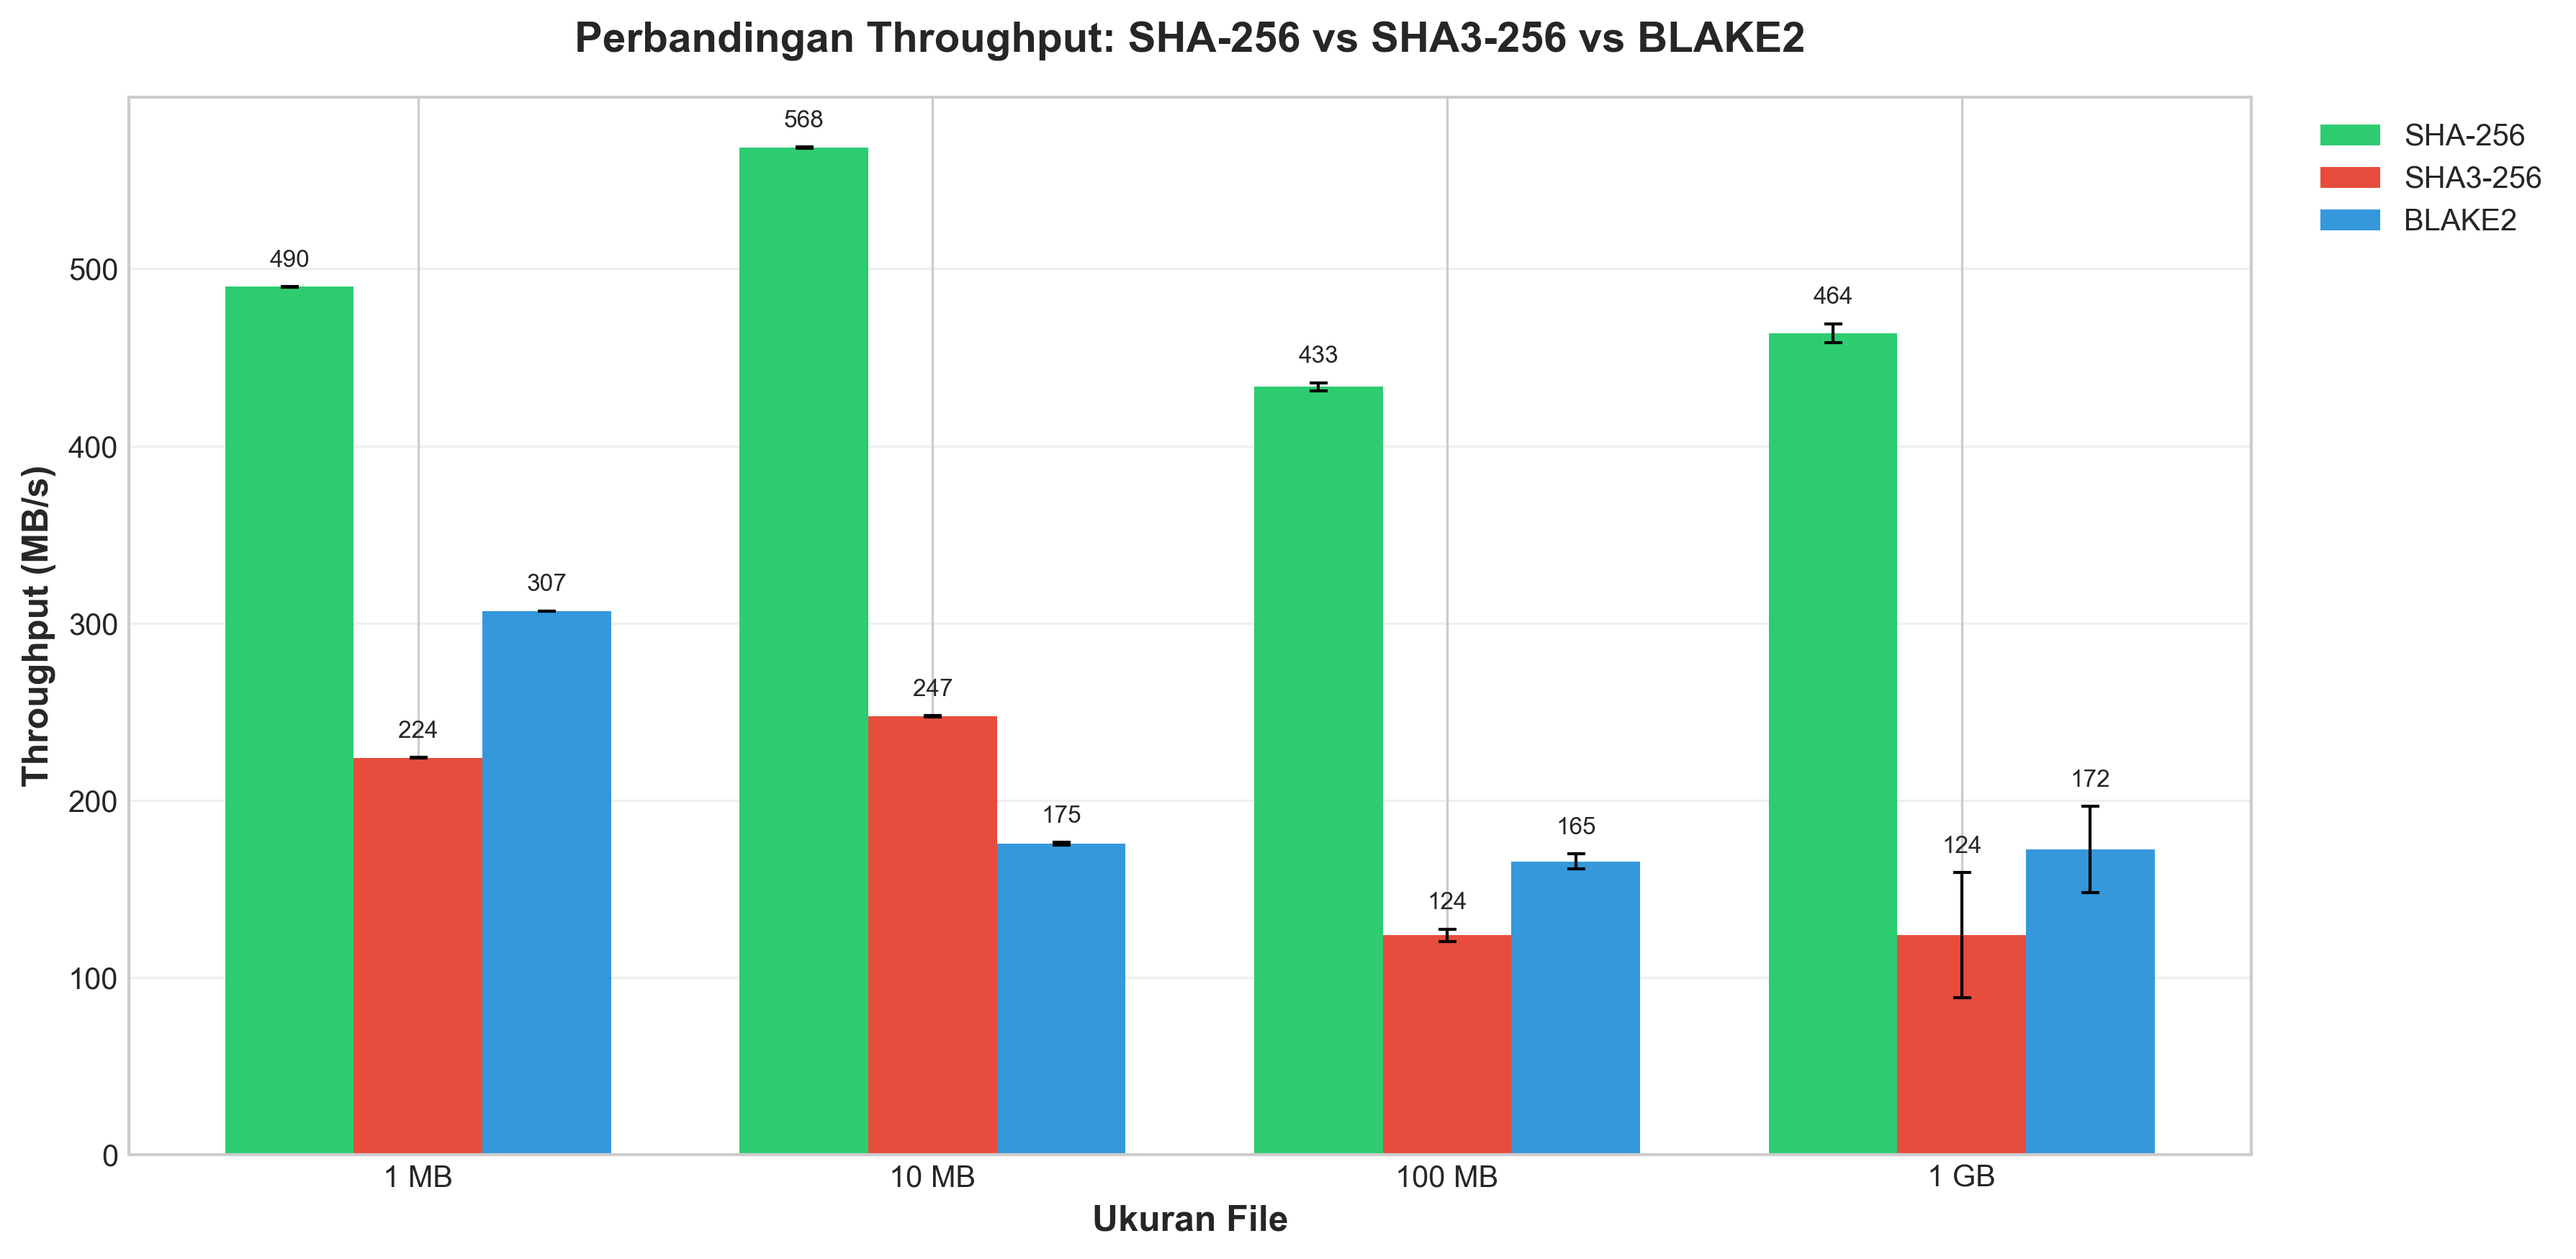
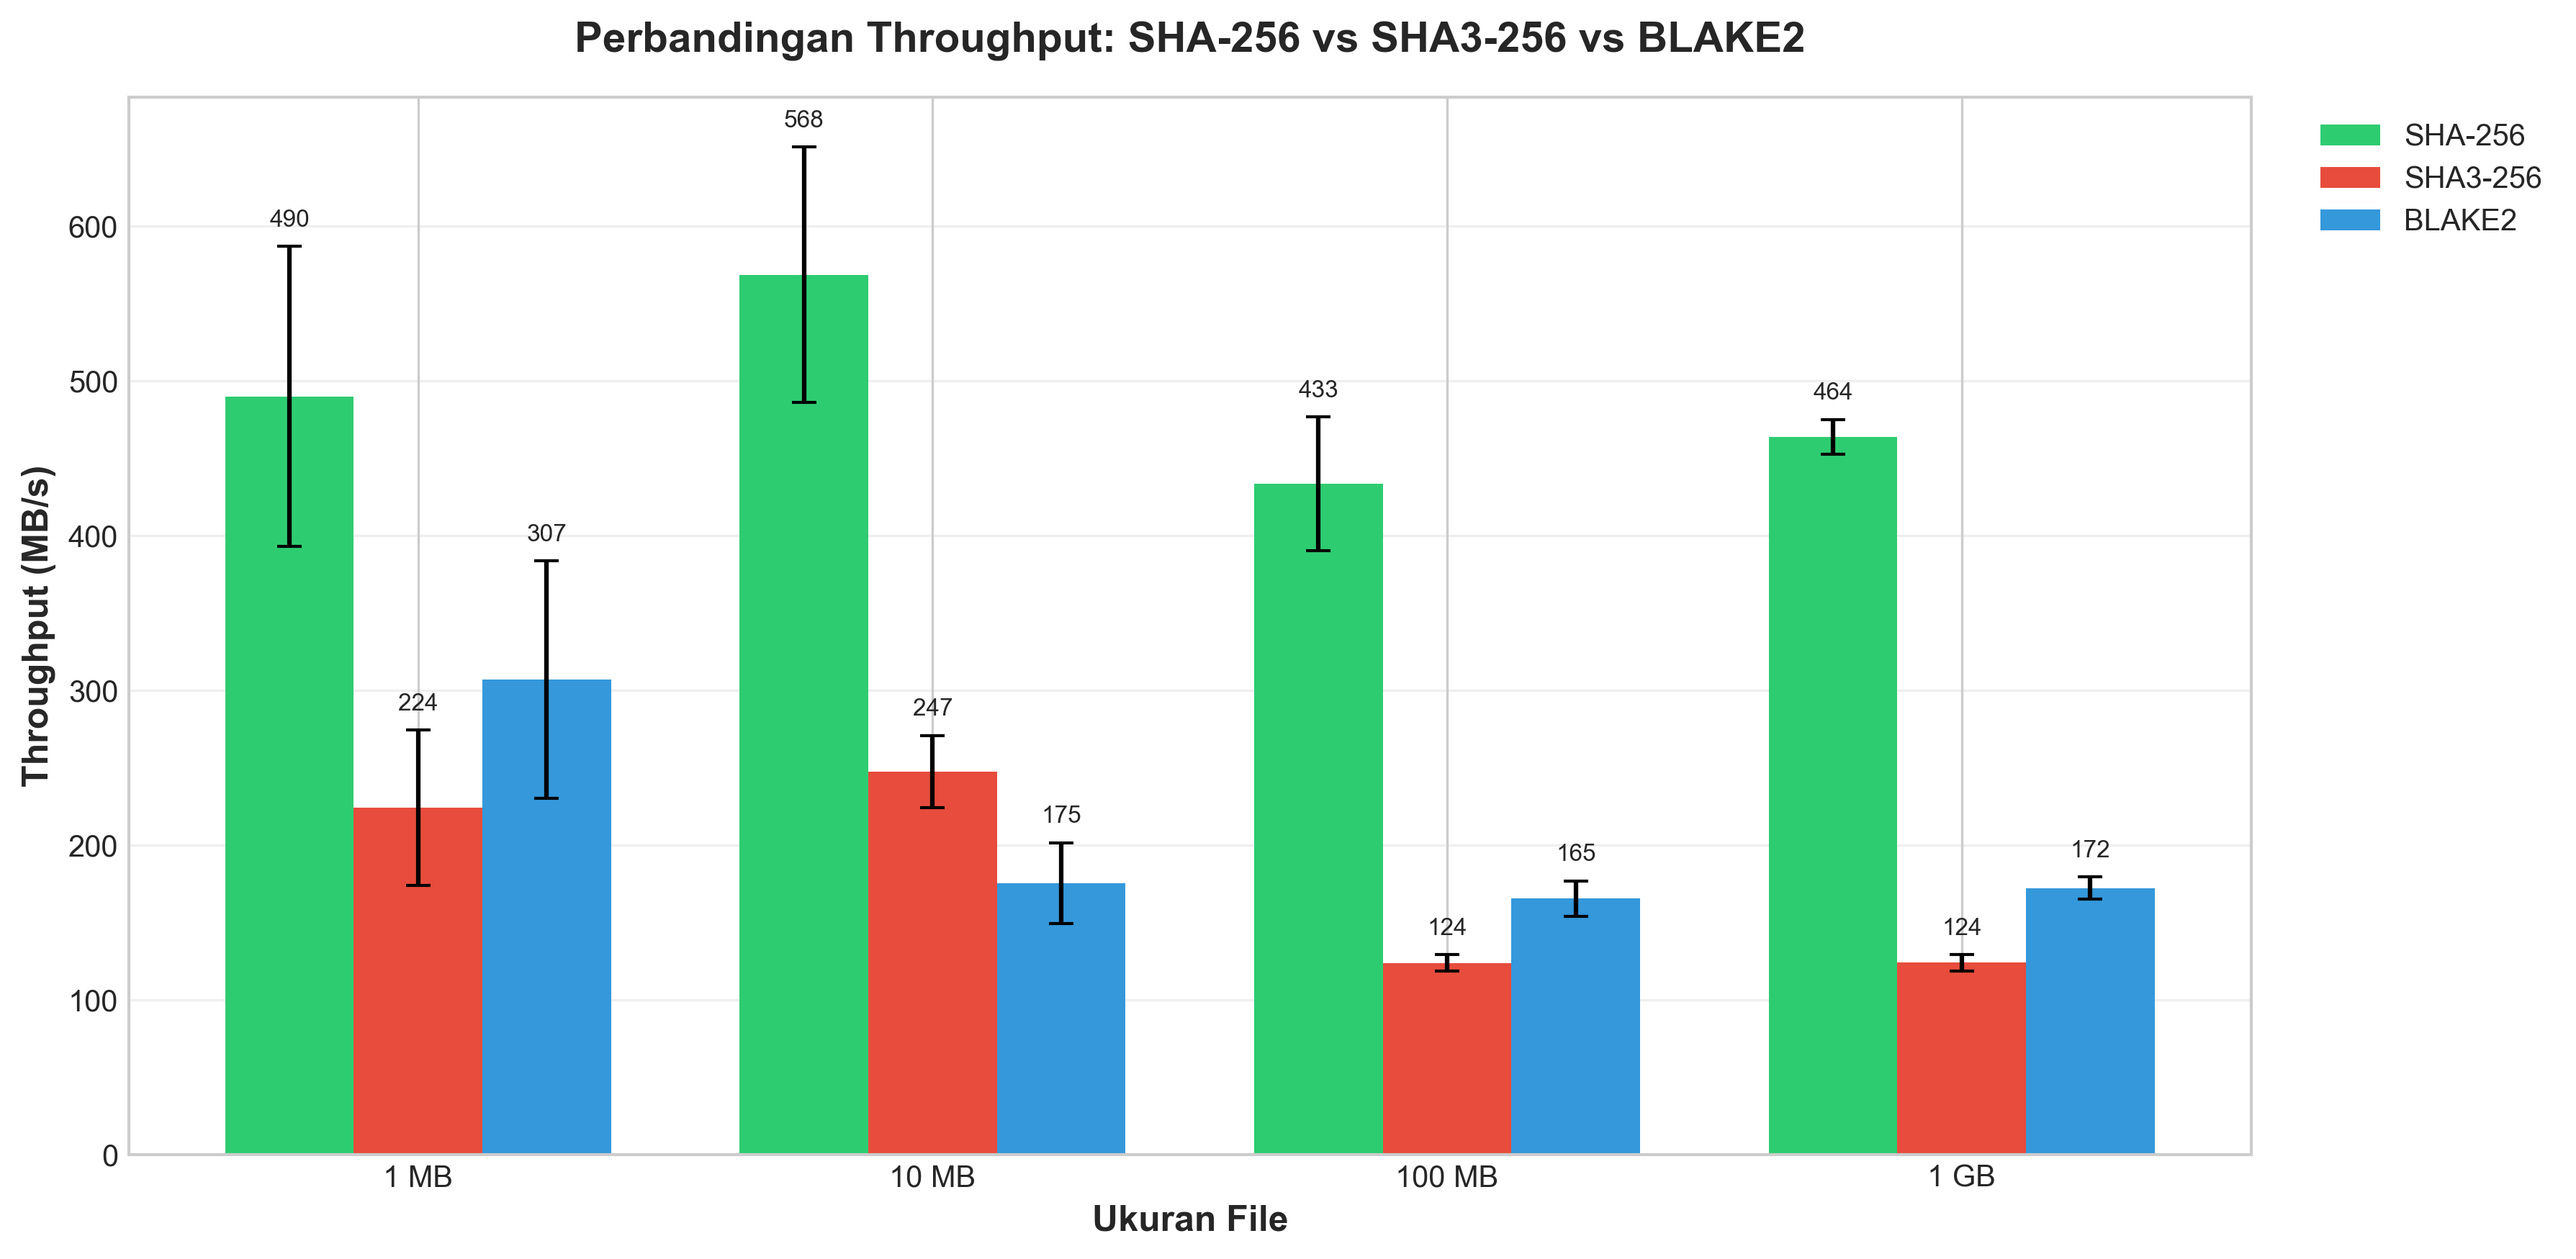
Audit Menyeluruh Standar Publikasi Q1/Q2 (Sastra, Metodologi, Statistik)

diff --git a/visualize.py b/visualize.py
@@ -58,11 +58,12 @@ def plot_throughput_comparison(df):
     for i, algo in enumerate(algorithms):
         algo_data = df[df['Algorithm'] == algo].sort_values('Size_Bytes')
         throughputs = algo_data['Throughput_MBps'].values
-        stdevs = algo_data['Stdev_Time'].values * 100
+        # Kalkulasi Stdev Throughput secara proporsional dari Stdev Time (Teorema Delta)
+        stdevs = throughputs * (algo_data['Stdev_Time'].values / algo_data['Mean_Time_Sec'].values)
         
         bars = ax.bar(x + (i - 1) * width, throughputs, width, 
                       label=algo, color=COLORS.get(algo, '#888888'),
-                      yerr=stdevs, capsize=3, error_kw={'linewidth': 1})
+                      yerr=stdevs, capsize=4, error_kw={'linewidth': 1.5})
     
     ax.set_xlabel('Ukuran File', fontweight='bold')
     ax.set_ylabel('Throughput (MB/s)', fontweight='bold')
